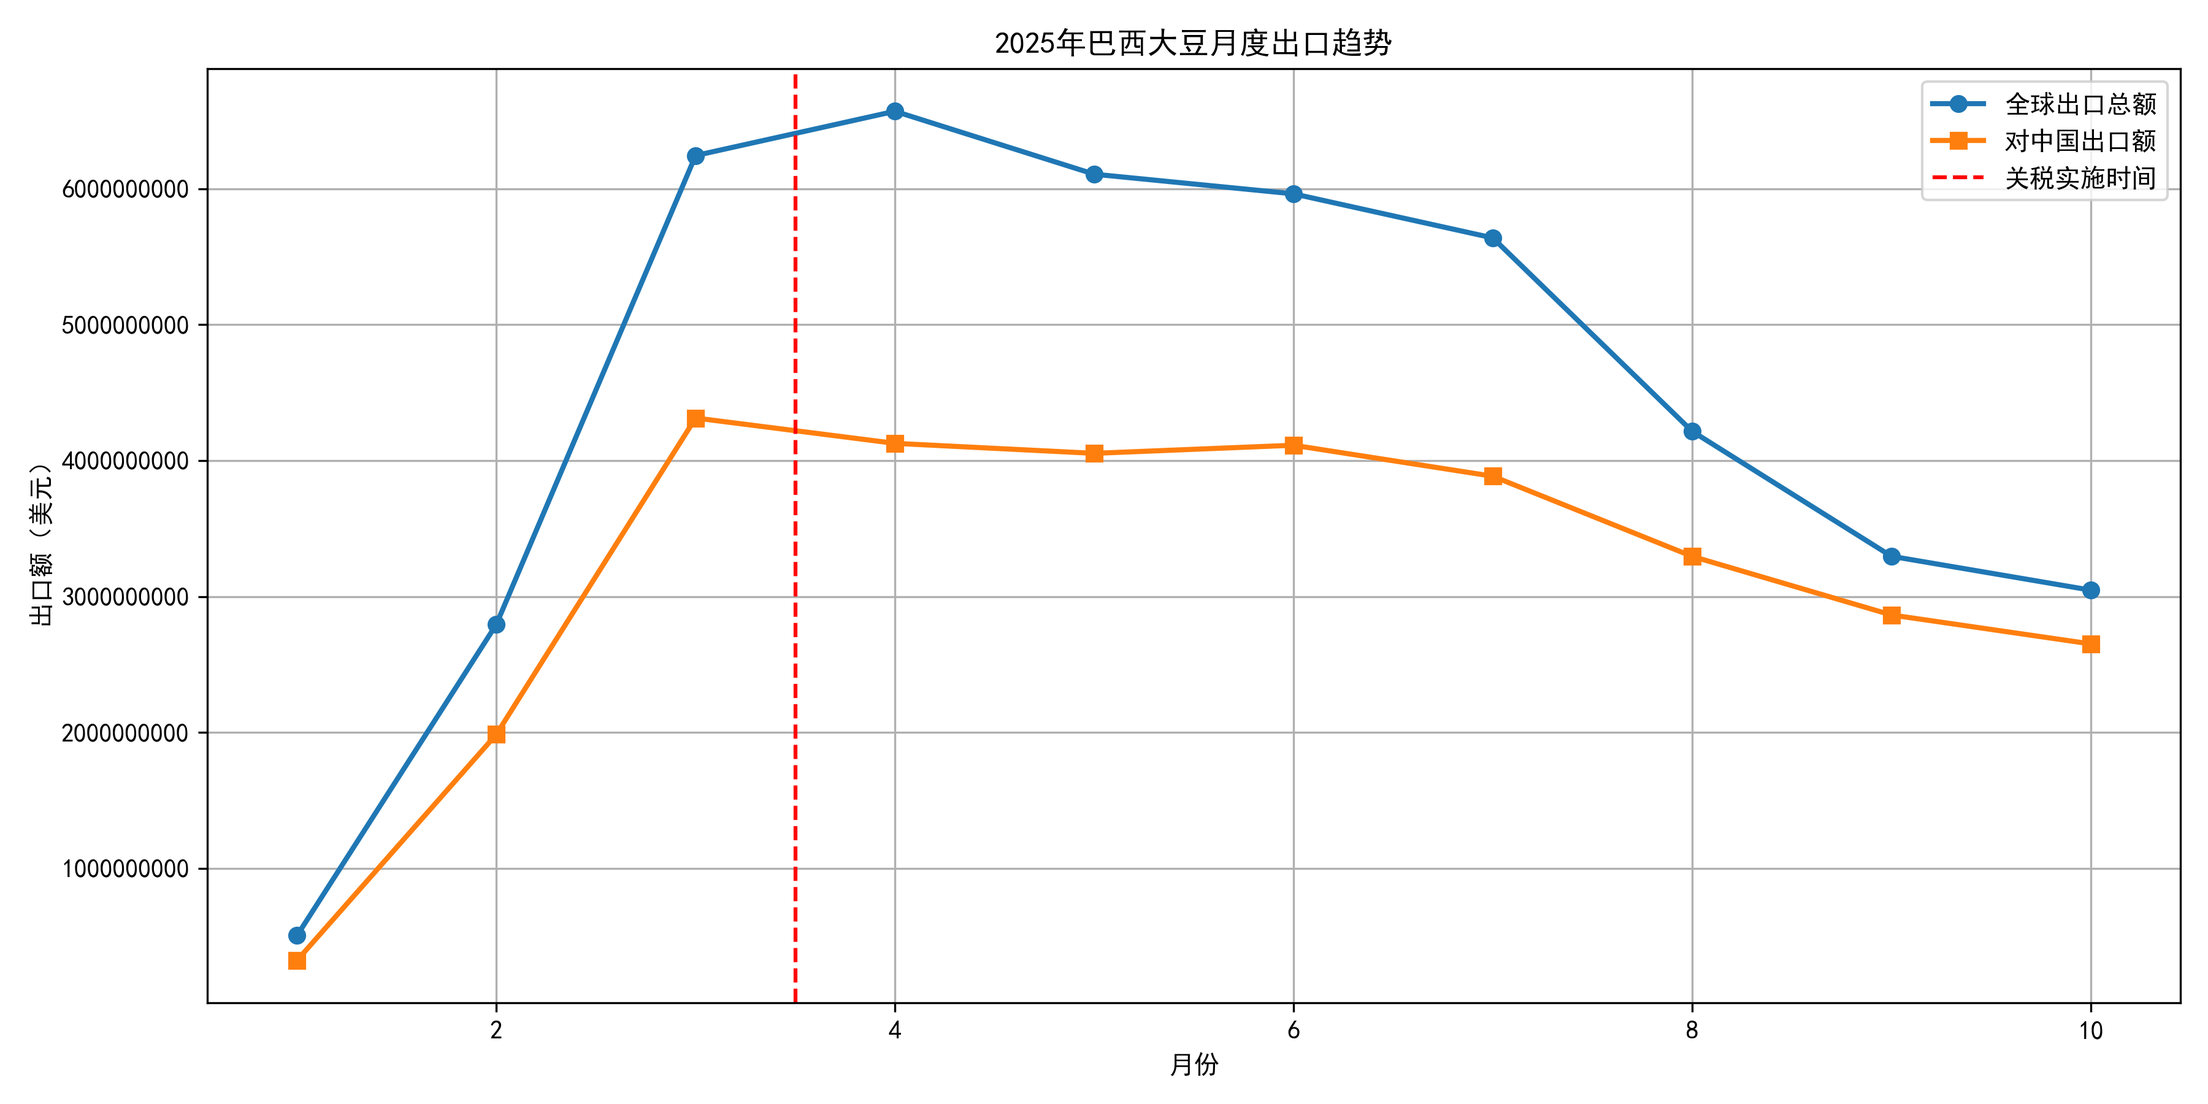
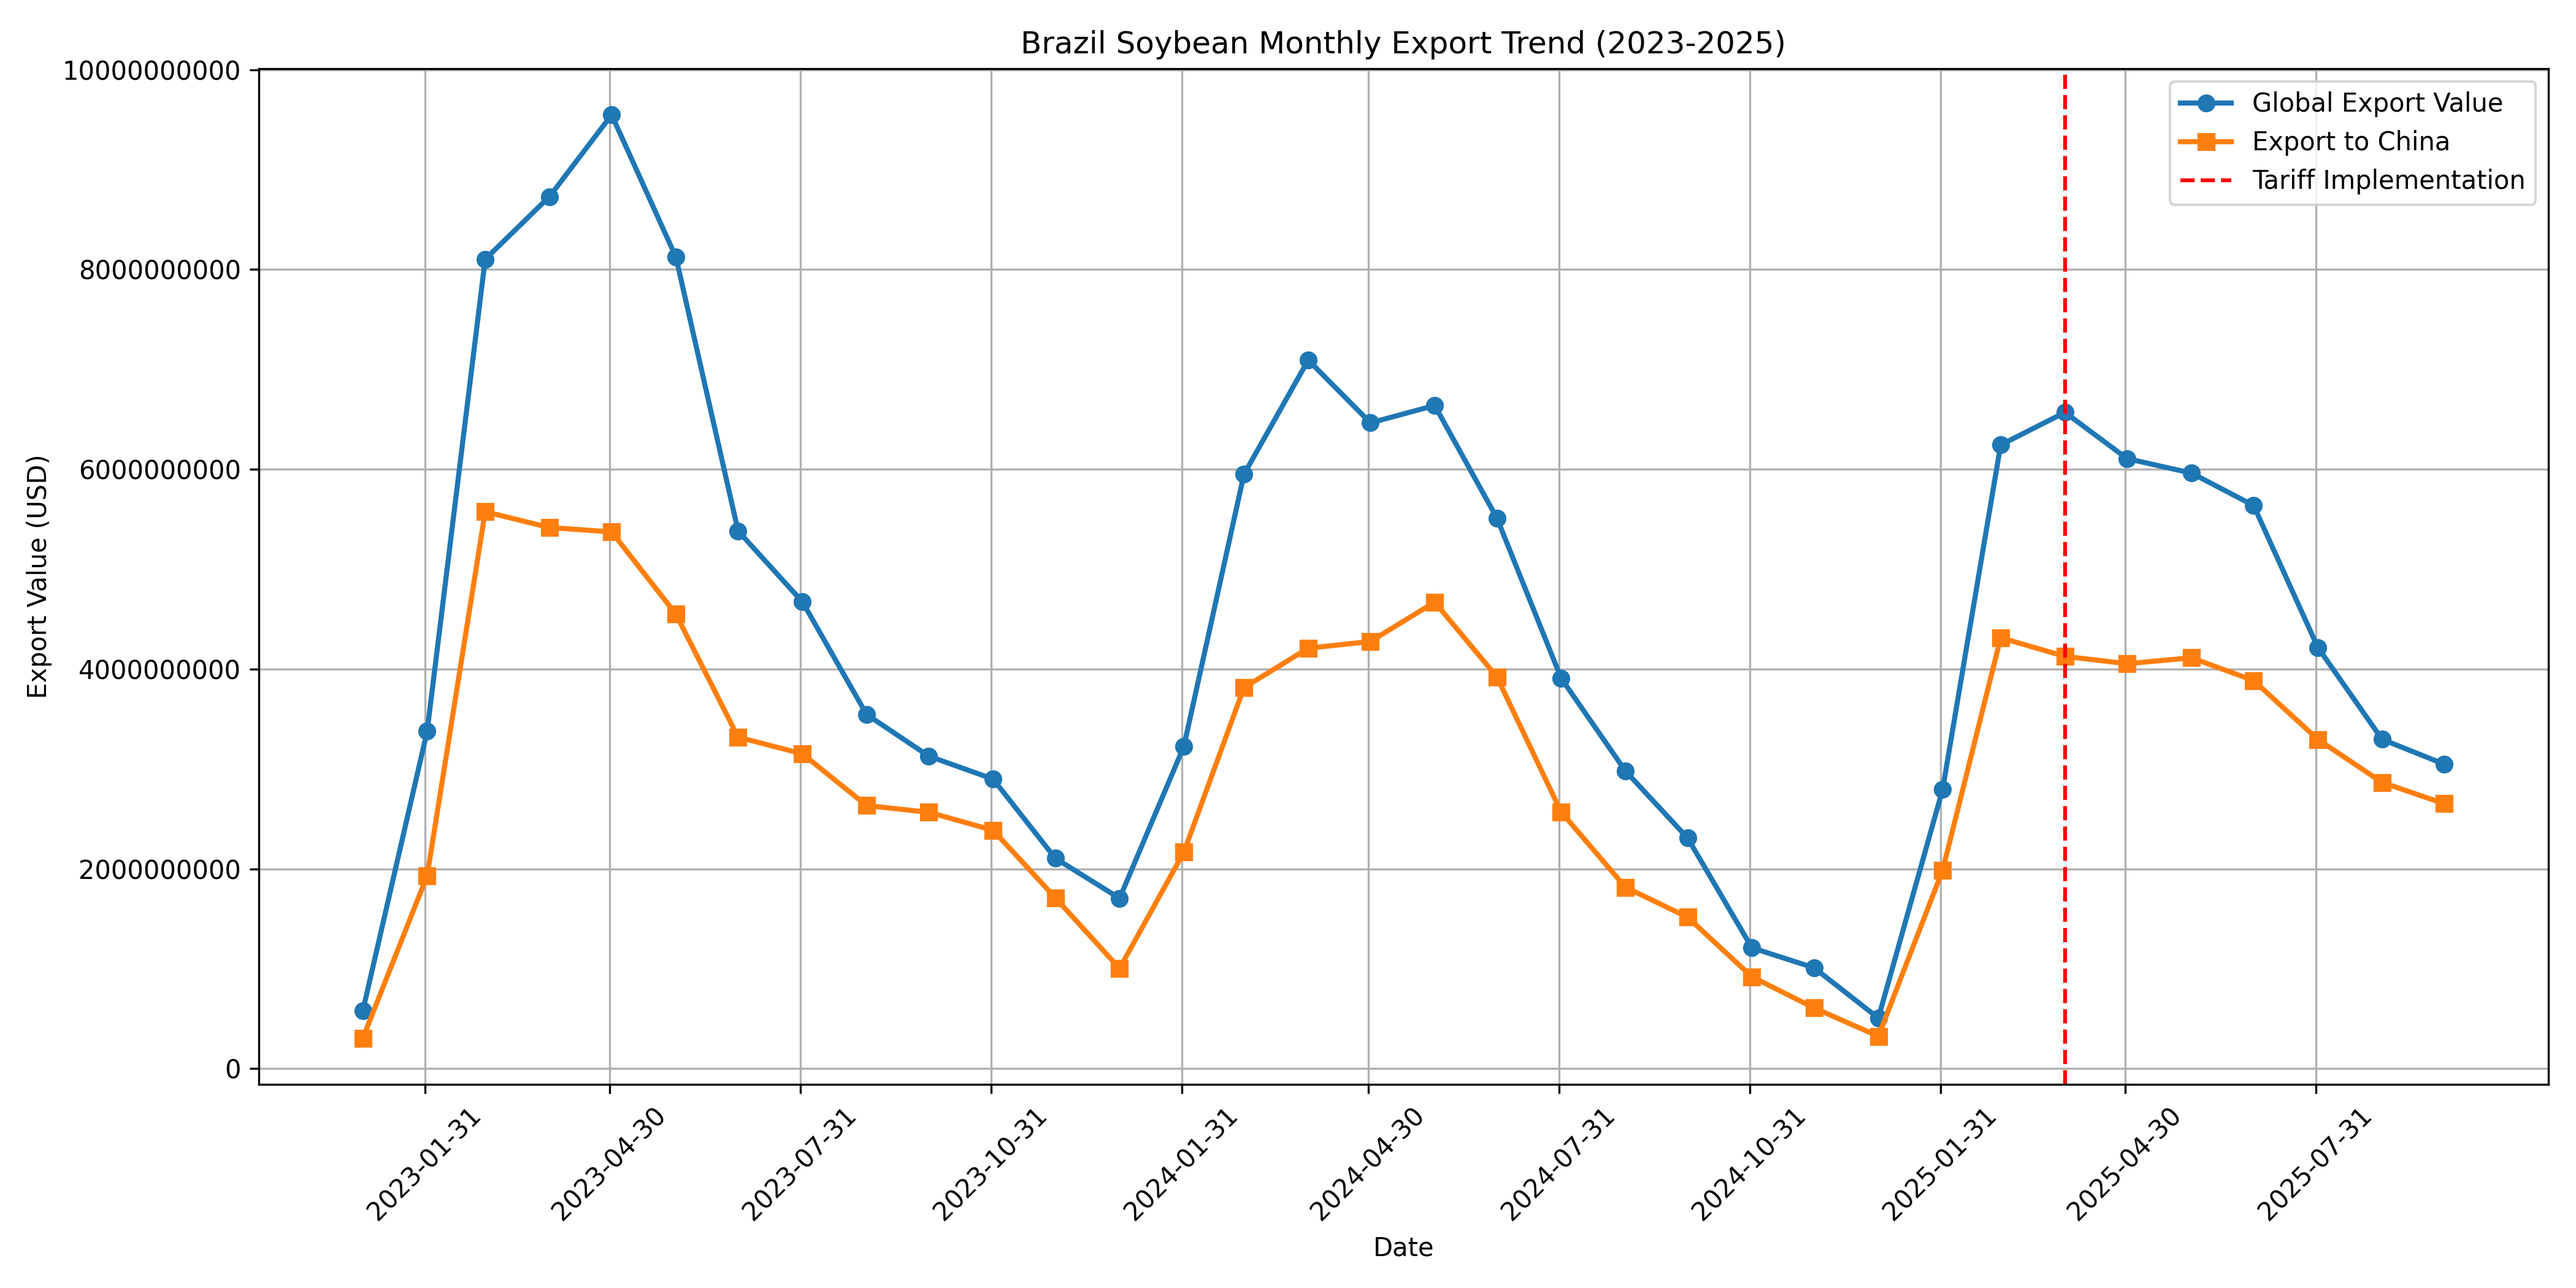
finalfinal

diff --git a/data/brazil_export_analysis.py b/data/brazil_export_analysis.py
@@ -14,7 +14,10 @@ df['date'] = pd.to_datetime(df[['Year', 'Month']].assign(day=1))
 # 关税实施时间点（根据之前的分析，关税时间是2025年4月9日）
 tariff_date = pd.to_datetime('2025-04-09')
 
-# 筛选2025年的数据（因为我们关注的是2025年4月前后）
+# 筛选2023-2025年的数据
+df_2023_2025 = df[(df['Year'] >= 2023) & (df['Year'] <= 2025)].copy()
+
+# 筛选2025年的数据
 df_2025 = df[df['Year'] == 2025].copy()
 
 # 划分关税前后阶段（按月划分）
@@ -27,154 +30,192 @@ post_tariff_data = df_2025[df_2025['Month'].isin(post_tariff_months)].copy()
 
 # 定义分析函数
 def export_impact_analysis(pre_data, post_data, country_name=None):
-    """分析关税对巴西大豆出口的影响"""
-    # 如果指定了国家，筛选特定国家的数据
+    """Analyze the impact of tariffs on Brazil soybean exports"""
+    # If country is specified, filter data for that country
     if country_name:
         pre_data = pre_data[pre_data['Country'] == country_name].copy()
         post_data = post_data[post_data['Country'] == country_name].copy()
     
-    # 检查数据是否为空
+    # Check if data is empty
     if pre_data.empty or post_data.empty:
         return None
     
-    # 计算月度平均值
+    # Calculate monthly averages
     pre_mean = pre_data['US$ FOB'].mean()
     post_mean = post_data['US$ FOB'].mean()
     
-    # 计算总出口额
+    # Calculate total export values
     pre_total = pre_data['US$ FOB'].sum()
     post_total = post_data['US$ FOB'].sum()
     
-    # 计算变化量和变化百分比
+    # Calculate change and percentage change
     change = post_mean - pre_mean
     change_percent = (change / pre_mean) * 100 if pre_mean != 0 else 0
     
-    # 月度数据用于统计检验
+    # Monthly data for statistical test
     pre_monthly_data = pre_data.groupby('Month')['US$ FOB'].sum().values
     post_monthly_data = post_data.groupby('Month')['US$ FOB'].sum().values
     
-    # 假设检验
+    # Hypothesis test
     try:
         _, p_value = stats.ttest_ind(pre_monthly_data, post_monthly_data, equal_var=False)
-        significance = "显著" if p_value < 0.05 else "不显著"
+        significance = "Significant" if p_value < 0.05 else "Not Significant"
     except:
         p_value = None
-        significance = "无法计算"
+        significance = "Cannot Calculate"
     
     return {
-        "国家": country_name if country_name else "全球",
-        "关税前月均出口额(美元)": pre_mean,
-        "关税后月均出口额(美元)": post_mean,
-        "关税前总出口额(美元)": pre_total,
-        "关税后总出口额(美元)": post_total,
-        "月均值变化量(美元)": change,
-        "变化百分比(%)": change_percent,
-        "p值": p_value,
-        "显著性": significance
+        "Country": country_name if country_name else "Global",
+        "Pre-Tariff Monthly Avg (USD)": pre_mean,
+        "Post-Tariff Monthly Avg (USD)": post_mean,
+        "Pre-Tariff Total (USD)": pre_total,
+        "Post-Tariff Total (USD)": post_total,
+        "Monthly Avg Change (USD)": change,
+        "Change Percentage (%)": change_percent,
+        "p-value": p_value,
+        "Significance": significance
     }
 
 # 获取主要出口目的地（基于2025年数据）
 top_countries = df_2025.groupby('Country')['US$ FOB'].sum().sort_values(ascending=False).head(10).index.tolist()
 
-# 1. 全球总体分析
-print("==================== 巴西大豆出口关税影响分析 ====================")
+# 1. Global overall analysis
+print("==================== Brazil Soybean Export Tariff Impact Analysis ====================")
 global_result = export_impact_analysis(pre_tariff_data, post_tariff_data)
-print(f"\n1. 全球总体影响：")
-print(f"   关税前月均出口额：${global_result['关税前月均出口额(美元)']:,.2f}")
-print(f"   关税后月均出口额：${global_result['关税后月均出口额(美元)']:,.2f}")
-print(f"   变化量：${global_result['月均值变化量(美元)']:,.2f}")
-print(f"   变化百分比：{global_result['变化百分比(%)']:.2f}%")
-print(f"   显著性：{global_result['显著性']}")
+print(f"\n1. Global Overall Impact：")
+print(f"   Pre-Tariff Monthly Avg: ${global_result['Pre-Tariff Monthly Avg (USD)']:,.2f}")
+print(f"   Post-Tariff Monthly Avg: ${global_result['Post-Tariff Monthly Avg (USD)']:,.2f}")
+print(f"   Change: ${global_result['Monthly Avg Change (USD)']:,.2f}")
+print(f"   Change Percentage: {global_result['Change Percentage (%)']:.2f}%")
+print(f"   Significance: {global_result['Significance']}")
 
-# 2. 主要国家分析
-print(f"\n2. 主要出口国家/地区影响：")
+# 2. Major countries analysis
+print(f"\n2. Major Export Countries/Regions Impact：")
 country_results = []
 for country in top_countries:
     result = export_impact_analysis(pre_tariff_data, post_tariff_data, country)
     if result:
         country_results.append(result)
-        trend = "增长" if result["月均值变化量(美元)"] > 0 else "下降"
-        print(f"   {country}：关税后月均出口额{trend}{abs(result['变化百分比(%)']):.2f}%，影响{result['显著性']}")
+        trend = "increased" if result["Monthly Avg Change (USD)"] > 0 else "decreased"
+        print(f"   {country}: Post-tariff monthly avg exports {trend} by {abs(result['Change Percentage (%)']):.2f}%, impact is {result['Significance']}")
 
-# 3. 特别关注中国市场
+# 3. Special focus on China market
 china_result = export_impact_analysis(pre_tariff_data, post_tariff_data, 'China')
-print(f"\n3. 中国市场特别分析：")
-print(f"   关税前月均出口额：${china_result['关税前月均出口额(美元)']:,.2f}")
-print(f"   关税后月均出口额：${china_result['关税后月均出口额(美元)']:,.2f}")
-print(f"   变化量：${china_result['月均值变化量(美元)']:,.2f}")
-print(f"   变化百分比：{china_result['变化百分比(%)']:.2f}%")
-print(f"   显著性：{china_result['显著性']}")
+print(f"\n3. China Market Special Analysis：")
+print(f"   Pre-Tariff Monthly Avg: ${china_result['Pre-Tariff Monthly Avg (USD)']:,.2f}")
+print(f"   Post-Tariff Monthly Avg: ${china_result['Post-Tariff Monthly Avg (USD)']:,.2f}")
+print(f"   Change: ${china_result['Monthly Avg Change (USD)']:,.2f}")
+print(f"   Change Percentage: {china_result['Change Percentage (%)']:.2f}%")
+print(f"   Significance: {china_result['Significance']}")
 
-# 4. 月度趋势分析
-print(f"\n4. 2025年月度出口趋势：")
+# 4. Monthly trend analysis
+print(f"\n4. 2025 Monthly Export Trends：")
 monthly_trends = df_2025.groupby(['Month', 'Country'])['US$ FOB'].sum().unstack().fillna(0)
 monthly_trends['Total'] = monthly_trends.sum(axis=1)
 print(monthly_trends[['China', 'Total']])
 
-# 5. 中国占巴西出口总额的比例变化
-print(f"\n5. 中国占巴西大豆出口总额的比例：")
+# 5. China's share of Brazil's total exports
+print(f"\n5. China's Share of Brazil's Total Soybean Exports：")
 china_percentage_pre = pre_tariff_data[pre_tariff_data['Country'] == 'China']['US$ FOB'].sum() / pre_tariff_data['US$ FOB'].sum() * 100
 china_percentage_post = post_tariff_data[post_tariff_data['Country'] == 'China']['US$ FOB'].sum() / post_tariff_data['US$ FOB'].sum() * 100
-print(f"   关税前：{china_percentage_pre:.2f}%")
-print(f"   关税后：{china_percentage_post:.2f}%")
-print(f"   变化：{(china_percentage_post - china_percentage_pre):.2f}个百分点")
+print(f"   Pre-Tariff: {china_percentage_pre:.2f}%")
+print(f"   Post-Tariff: {china_percentage_post:.2f}%")
+print(f"   Change: {(china_percentage_post - china_percentage_pre):.2f} percentage points")
 
 # 保存结果到CSV
 global_df = pd.DataFrame([global_result])
 country_df = pd.DataFrame(country_results)
 
-# 创建结果目录（如果不存在）
+# Create result directory if it doesn't exist
 import os
 output_dir = '../dataset/'
 os.makedirs(output_dir, exist_ok=True)
 
-# 保存结果
+# Save results
 global_df.to_csv(os.path.join(output_dir, 'brazil_global_export_impact.csv'), index=False, encoding='utf-8-sig')
 country_df.to_csv(os.path.join(output_dir, 'brazil_country_export_impact.csv'), index=False, encoding='utf-8-sig')
 
-# 生成可视化图表
-plt.rcParams['font.sans-serif'] = ['SimHei']  # 用来正常显示中文标签
-plt.rcParams['axes.unicode_minus'] = False  # 用来正常显示负号
+# Generate visualization charts
 
-# 1. 月度出口趋势图
-plt.figure(figsize=(12, 6))
-monthly_data = df_2025.groupby('Month')['US$ FOB'].sum()
-plt.plot(monthly_data.index, monthly_data.values, marker='o', linewidth=2, label='全球出口总额')
-china_monthly = df_2025[df_2025['Country'] == 'China'].groupby('Month')['US$ FOB'].sum()
-plt.plot(china_monthly.index, china_monthly.values, marker='s', linewidth=2, label='对中国出口额')
-plt.axvline(x=3.5, color='r', linestyle='--', label='关税实施时间')
-plt.title('2025年巴西大豆月度出口趋势')
-plt.xlabel('月份')
-plt.ylabel('出口额（美元）')
+# 1. Monthly export trend chart (2023-2025)
+plt.figure(figsize=(14, 7))
+# Prepare data for 2023-2025 monthly trends
+df_2023_2025['year_month'] = df_2023_2025['date'].dt.strftime('%Y-%m')
+monthly_data_all = df_2023_2025.groupby('year_month')['US$ FOB'].sum().reset_index()
+monthly_data_all['date'] = pd.to_datetime(monthly_data_all['year_month'])
+monthly_data_all = monthly_data_all.sort_values('date')
+
+# China data for 2023-2025
+china_data_all = df_2023_2025[df_2023_2025['Country'] == 'China'].groupby('year_month')['US$ FOB'].sum().reset_index()
+china_data_all['date'] = pd.to_datetime(china_data_all['year_month'])
+china_data_all = china_data_all.sort_values('date')
+
+# Plot the data
+plt.plot(monthly_data_all['date'], monthly_data_all['US$ FOB'], marker='o', linewidth=2, label='Global Export Value')
+plt.plot(china_data_all['date'], china_data_all['US$ FOB'], marker='s', linewidth=2, label='Export to China')
+
+# Add tariff implementation line
+plt.axvline(x=pd.to_datetime('2025-04-01'), color='r', linestyle='--', label='Tariff Implementation')
+
+# Set x-ticks for better readability
+plt.xticks(pd.date_range(start='2023-01-01', end='2025-10-01', freq='3M'), rotation=45)
+
+plt.title('Brazil Soybean Monthly Export Trend (2023-2025)')
+plt.xlabel('Date')
+plt.ylabel('Export Value (USD)')
 plt.legend()
 plt.grid(True)
 plt.ticklabel_format(style='plain', axis='y')
 plt.tight_layout()
 plt.savefig('../charts/brazil_export_trend.png', dpi=300)
 
-# 2. 中国市场占比变化图
-plt.figure(figsize=(10, 6))
-months = list(range(1, 11))
-china_percentages = []
-for month in months:
-    month_data = df_2025[df_2025['Month'] == month]
-    if month_data['US$ FOB'].sum() > 0:
-        china_share = month_data[month_data['Country'] == 'China']['US$ FOB'].sum() / month_data['US$ FOB'].sum() * 100
-        china_percentages.append(china_share)
-    else:
-        china_percentages.append(0)
-plt.plot(months, china_percentages, marker='o', linewidth=2, color='green')
-plt.axvline(x=3.5, color='r', linestyle='--', label='关税实施时间')
-plt.title('2025年中国占巴西大豆出口的月度比例')
-plt.xlabel('月份')
-plt.ylabel('占比（%）')
+# 2. China market share trend chart (2023-2025)
+plt.figure(figsize=(14, 7))
+# Calculate China's share for each month from 2023-2025
+monthly_shares = []
+monthly_dates = []
+
+for year in range(2023, 2026):
+    for month in range(1, 13):
+        # Skip future months in 2025 if needed
+        if year == 2025 and month > 10:
+            break
+        
+        month_data = df[(df['Year'] == year) & (df['Month'] == month)]
+        total_value = month_data['US$ FOB'].sum()
+        china_value = month_data[month_data['Country'] == 'China']['US$ FOB'].sum()
+        
+        if total_value > 0:
+            share = (china_value / total_value) * 100
+        else:
+            share = 0
+        
+        monthly_shares.append(share)
+        monthly_dates.append(f"{year}-{month:02d}")
+
+# Convert to datetime for plotting
+monthly_dates_dt = pd.to_datetime(monthly_dates)
+
+# Plot the data
+plt.plot(monthly_dates_dt, monthly_shares, marker='o', linewidth=2, color='green')
+
+# Add tariff implementation line
+plt.axvline(x=pd.to_datetime('2025-04-01'), color='r', linestyle='--', label='Tariff Implementation')
+
+# Set x-ticks for better readability
+plt.xticks(pd.date_range(start='2023-01-01', end='2025-10-01', freq='3M'), rotation=45)
+
+plt.title('China\'s Monthly Share of Brazil\'s Soybean Exports (2023-2025)')
+plt.xlabel('Date')
+plt.ylabel('Share (%)')
+plt.legend()
 plt.grid(True)
 plt.tight_layout()
 plt.savefig('../charts/brazil_china_percentage.png', dpi=300)
 
-print(f"\n\n分析结果已保存：")
-print(f"- brazil_global_export_impact.csv (巴西全球出口关税影响)")
-print(f"- brazil_country_export_impact.csv (主要国家出口关税影响)")
-print(f"\n图表已保存：")
-print(f"- brazil_export_trend.png (月度出口趋势图)")
-print(f"- brazil_china_percentage.png (中国市场占比变化图)")
+print(f"\n\nAnalysis results have been saved：")
+print(f"- brazil_global_export_impact.csv (Brazil Global Export Tariff Impact)")
+print(f"- brazil_country_export_impact.csv (Major Countries Export Tariff Impact)")
+print(f"\nCharts have been saved：")
+print(f"- brazil_export_trend.png (Monthly Export Trend 2023-2025)")
+print(f"- brazil_china_percentage.png (China Market Share Trend 2023-2025)")
